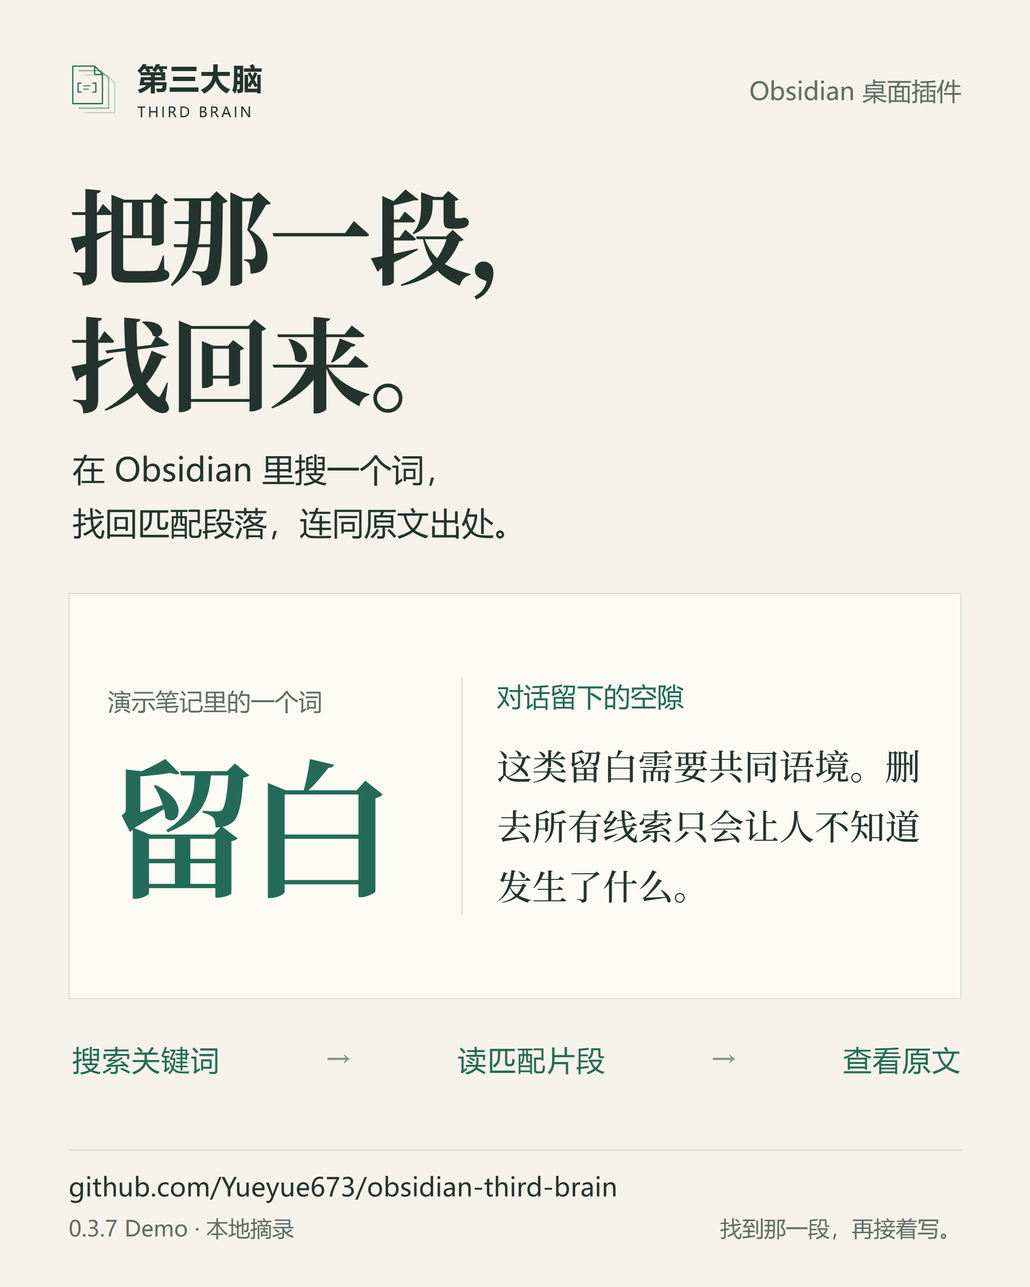
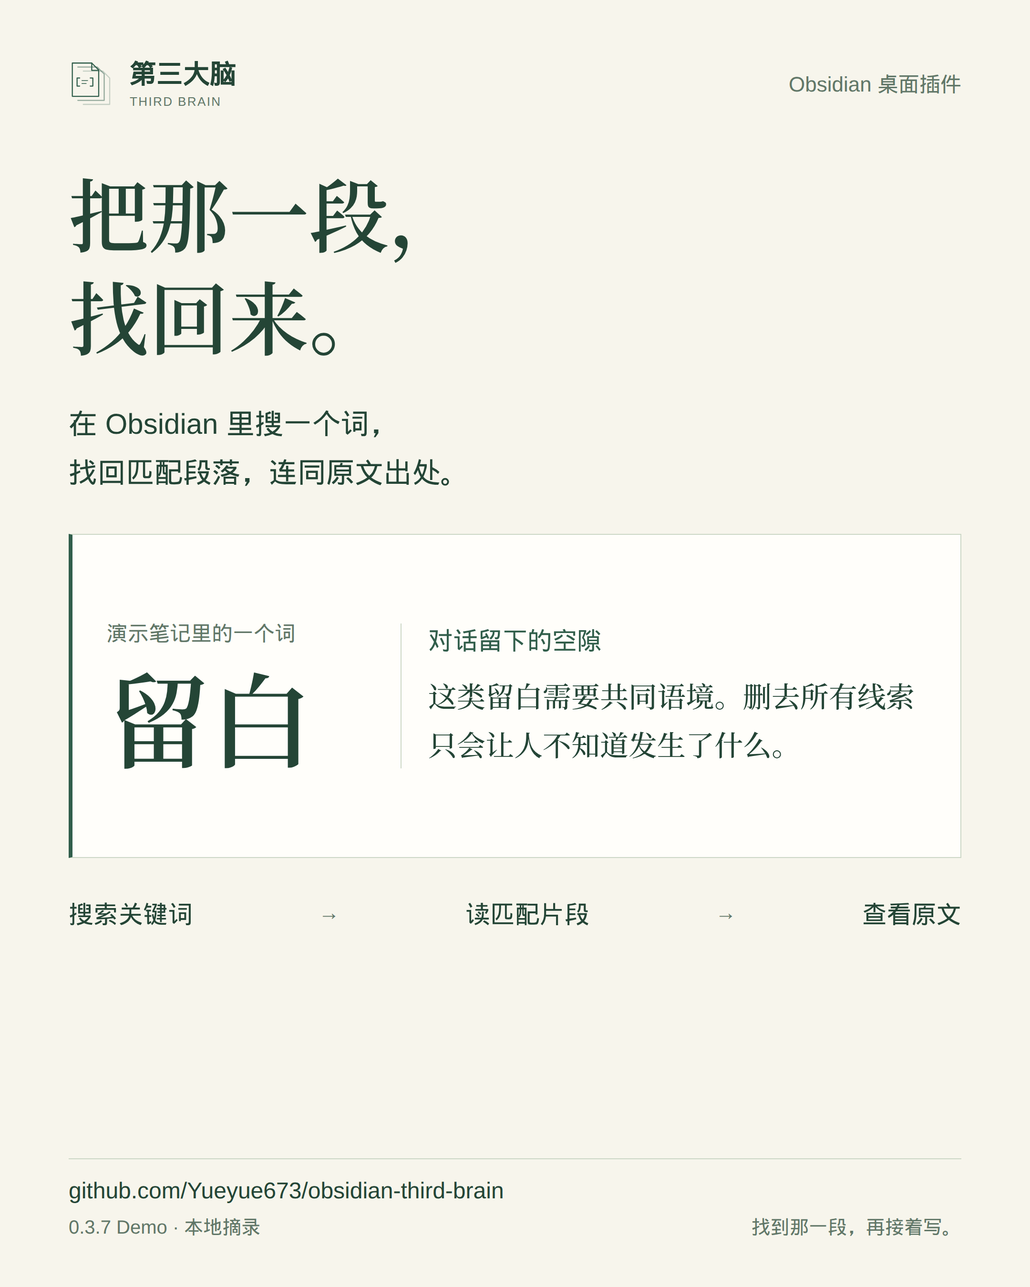
Quiet the covers, posters and test-page chrome.
Use paper, ink and a muted green for the README covers, campaign posters, plugin panel and browser-test page. Search, storage and the released 0.3.7 screenshots stay as they are.

diff --git a/docs/posters/posters.css b/docs/posters/posters.css
@@ -1,43 +1,40 @@
 /* Third Brain promotional artwork — MIT, Copyright (c) 2026 Yueyue.
-   Fonts are not bundled. Use Noto Serif SC and Microsoft YaHei, or the fallbacks below. */
+   Fonts are not bundled. Use Noto Serif SC and Microsoft YaHei, or the fallbacks below.
+   Paper, ink and a quiet green. No gradients, blur or glass. */
 *{box-sizing:border-box}
-:root{--paper:#f5f2eb;--ink:#23332e;--muted:#5f6e66;--green:#246b57;--line:#cbd5cb;--serif:"Campaign Serif","Noto Serif SC","Songti SC","SimSun",serif;--sans:"Microsoft YaHei","PingFang SC",sans-serif}
-html,body{margin:0;padding:0}body{background:#d9dfd8;color:var(--ink);font-family:var(--sans)}
-.poster{position:relative;width:1080px;height:1350px;overflow:hidden;background:var(--paper);color:var(--ink);isolation:isolate;margin:0 0 32px;font-family:var(--sans)}
-.brand{position:absolute;left:72px;right:72px;top:60px;display:flex;align-items:center;justify-content:space-between;height:68px}
-.lockup{display:flex;align-items:center;gap:18px}.mark{width:54px;height:64px;color:var(--green)}
-.name{font-size:32px;line-height:1.2;font-weight:700;letter-spacing:1px}.name small{display:block;font-size:15px;letter-spacing:2.3px;font-weight:500;margin-top:8px}
-.category{font-size:26px;font-weight:400;color:var(--muted)}
-h1{position:absolute;left:72px;right:56px;top:180px;margin:0;font-family:var(--serif);font-size:100px;font-weight:720;line-height:1.24;letter-spacing:-3px;word-break:keep-all}
-.lead{position:absolute;left:76px;right:60px;top:458px;margin:0;font-size:34px;line-height:1.65;font-weight:400}
-.footer{position:absolute;left:72px;right:72px;bottom:46px;border-top:1px solid var(--line);padding-top:20px}
-.url{font-size:27px;line-height:1.3;font-family:var(--sans);letter-spacing:.1px}
-.footer-row{display:flex;justify-content:space-between;align-items:center;margin-top:12px;color:var(--muted);font-size:23px;line-height:1.3}
-.eyebrow{font-size:26px;letter-spacing:.5px;color:var(--muted);margin:0}.caption{font-size:25px;line-height:1.6;color:var(--muted);margin:0}
-.p1 h1{font-size:108px;top:177px}.p1 .lead{top:464px}
-.note-paper{position:absolute;left:72px;right:72px;top:622px;height:426px;background:#fcfaf5;border:1px solid #d4dacf;display:grid;grid-template-columns:335px 1fr;align-items:center;padding:36px 40px;column-gap:36px}
-.keyword{font-family:var(--serif);font-size:156px;font-weight:650;line-height:1.1;color:var(--green);letter-spacing:-10px}
-.keyword small{display:block;font-family:var(--sans);font-weight:400;font-size:25px;letter-spacing:0;color:var(--muted);margin-bottom:26px}
-.note-copy{border-left:1px solid var(--line);padding-left:36px}.note-copy h2{font-size:28px;line-height:1.4;margin:0 0 22px;color:var(--green);font-weight:500}.note-copy p{font-family:var(--serif);font-size:37px;line-height:1.7;font-weight:500;margin:0}
-.p1 .process{position:absolute;left:76px;right:72px;top:1091px;font-size:30px;letter-spacing:1px;color:var(--green);display:flex;align-items:center;justify-content:space-between}
-.p1 .process .arrow{font-size:25px;color:#82948a}
-.p2 h1{font-size:96px;top:181px}.p2 .lead{top:451px;font-size:33px}
-.p2 .search-label{position:absolute;left:76px;top:566px;font-size:26px;color:var(--green);margin:0}
-.search-shot{position:absolute;left:72px;top:615px;width:936px;height:auto;display:block}
-.p2 .match-label{position:absolute;left:76px;top:826px;margin:0;font-size:26px;color:var(--green)}
-.match-shot{position:absolute;left:72px;top:880px;width:936px;height:auto;display:block}
-.p2 .outcome{position:absolute;left:76px;right:72px;top:1120px;margin:0;font-size:28px;line-height:1.55}
-.p2 .source-note{position:absolute;left:76px;top:1065px;color:var(--muted);font-size:23px;margin:0}
-.p3{--paper:#173f32;--ink:#f5f2eb;--muted:#c4d5c9;--line:#527060;--green:#bcdbc7}
-.p3 h1{top:179px;font-size:100px}.p3 .lead{top:451px;font-size:34px}
-.quotation{position:absolute;left:76px;right:72px;top:615px;margin:0;font-family:var(--serif);font-size:56px;line-height:1.63;font-weight:550;letter-spacing:-1px}
-.p3 .quote-source{position:absolute;left:78px;top:899px;margin:0;font-size:27px;color:var(--muted)}
-.p3 .button-label{position:absolute;left:78px;top:958px;margin:0;font-size:30px}
-.open-shot{position:absolute;left:76px;top:1008px;max-width:924px;width:850px;height:auto;display:block}
-.p3 .caption{position:absolute;left:78px;top:1152px;font-size:23px}
-.p4 h1{top:180px;font-size:96px}.p4 .lead{top:451px;font-size:33px;line-height:1.75}
-.steps{position:absolute;left:76px;top:624px;width:535px;list-style:none;margin:0;padding:0;display:flex;flex-direction:column;gap:42px}
-.steps li{display:grid;grid-template-columns:36px 1fr;column-gap:16px}.step-number{font-size:22px;color:var(--green);padding-top:10px}.step-title{font-size:38px;line-height:1.5;font-weight:500;margin:0;letter-spacing:-1px}.step-detail{font-size:26px;line-height:1.55;color:var(--muted);margin:5px 0 0}
-.qr-area{position:absolute;right:72px;top:630px;width:369px;text-align:center}.qr{display:block;width:369px;height:369px;image-rendering:pixelated;background:white}.qr-area p{font-size:27px;line-height:1.5;margin:16px 0 0;color:var(--green)}
-.p4 .try-note{position:absolute;left:76px;top:1123px;font-size:28px;line-height:1.5;color:var(--muted);margin:0}
+:root{--paper:#f7f5ec;--ink:#244536;--muted:#617768;--green:#315e4b;--line:#ccd7c6;--card:#fffefa;--serif:"Campaign Serif","Noto Serif SC","Songti SC","SimSun",serif;--sans:"Microsoft YaHei","PingFang SC","Noto Sans SC","Source Han Sans SC",sans-serif}
+html,body{margin:0;padding:0}body{background:#e6e1d4;color:var(--ink);font-family:var(--sans)}
+.poster{position:relative;width:1080px;height:1350px;overflow:hidden;background:var(--paper);color:var(--ink);margin:0 0 32px;font-family:var(--sans)}
+.brand{position:absolute;left:72px;right:72px;top:56px;display:flex;align-items:center;justify-content:space-between;height:64px}
+.lockup{display:flex;align-items:center;gap:16px}.mark{width:48px;height:58px;color:var(--green)}
+.name{font-size:28px;line-height:1.25;font-weight:600}.name small{display:block;font-size:13px;letter-spacing:1.2px;font-weight:500;margin-top:4px;color:var(--muted)}
+.category{font-size:22px;font-weight:400;color:var(--muted)}
+h1{position:absolute;left:72px;right:72px;top:168px;margin:0;font-family:var(--serif);font-size:84px;font-weight:600;line-height:1.28;letter-spacing:0;word-break:keep-all}
+.lead{position:absolute;left:72px;right:72px;top:420px;margin:0;font-size:30px;line-height:1.7;font-weight:400;color:var(--ink)}
+.footer{position:absolute;left:72px;right:72px;bottom:48px;border-top:1px solid var(--line);padding-top:18px}
+.url{font-size:24px;line-height:1.35;font-family:var(--sans)}
+.footer-row{display:flex;justify-content:space-between;align-items:center;margin-top:8px;color:var(--muted);font-size:20px;line-height:1.4}
+.eyebrow{font-size:22px;color:var(--muted);margin:0}.caption{font-size:20px;line-height:1.5;color:var(--muted);margin:0}
+.note-paper{position:absolute;left:72px;right:72px;top:560px;height:340px;background:var(--card);border:1px solid var(--line);border-left:4px solid var(--green);display:grid;grid-template-columns:280px 1fr;align-items:center;padding:32px 36px;column-gap:28px}
+.keyword{font-family:var(--serif);font-size:108px;font-weight:600;line-height:1.05;color:var(--ink);letter-spacing:0}
+.keyword small{display:block;font-family:var(--sans);font-weight:400;font-size:22px;letter-spacing:0;color:var(--muted);margin-bottom:18px}
+.note-copy{border-left:1px solid var(--line);padding-left:28px}.note-copy h2{font-size:26px;line-height:1.4;margin:0 0 14px;color:var(--green);font-weight:500}.note-copy p{font-family:var(--serif);font-size:30px;line-height:1.7;font-weight:500;margin:0}
+.p1 .process{position:absolute;left:72px;right:72px;top:944px;font-size:26px;color:var(--ink);display:flex;align-items:center;justify-content:space-between}
+.p1 .process .arrow{font-size:22px;color:var(--muted)}
+.p2 .search-label{position:absolute;left:72px;top:560px;font-size:22px;color:var(--muted);margin:0}
+.search-shot,.match-shot,.open-shot{display:block;height:auto;border:1px solid var(--line);background:var(--card)}
+.search-shot{position:absolute;left:72px;top:604px;width:936px}
+.p2 .match-label{position:absolute;left:72px;top:820px;margin:0;font-size:22px;color:var(--muted)}
+.match-shot{position:absolute;left:72px;top:864px;width:936px}
+.p2 .source-note{position:absolute;left:72px;top:1048px;color:var(--muted);font-size:20px;margin:0}
+.p2 .outcome{position:absolute;left:72px;right:72px;top:1096px;margin:0;font-size:26px;line-height:1.55}
+.quotation{position:absolute;left:72px;right:72px;top:560px;margin:0;padding:8px 0 8px 28px;border-left:3px solid var(--green);font-family:var(--serif);font-size:48px;line-height:1.6;font-weight:500}
+.p3 .quote-source{position:absolute;left:104px;top:830px;margin:0;font-size:24px;color:var(--muted)}
+.p3 .button-label{position:absolute;left:72px;top:896px;margin:0;font-size:26px;color:var(--ink)}
+.open-shot{position:absolute;left:72px;top:952px;width:850px}
+.p3 .caption{position:absolute;left:72px;top:1104px;font-size:20px;color:var(--muted)}
+.steps{position:absolute;left:72px;top:568px;width:500px;list-style:none;margin:0;padding:0;display:flex;flex-direction:column;gap:36px}
+.steps li{display:grid;grid-template-columns:36px 1fr;column-gap:12px}.step-number{font-size:18px;color:var(--muted);padding-top:8px}.step-title{font-size:32px;line-height:1.45;font-weight:500;margin:0}.step-detail{font-size:22px;line-height:1.55;color:var(--muted);margin:4px 0 0}
+.qr-area{position:absolute;right:72px;top:568px;width:369px;text-align:center}.qr{display:block;width:369px;height:369px;image-rendering:pixelated;background:#fffefa}.qr-area p{font-size:22px;line-height:1.5;margin:14px 0 0;color:var(--muted)}
+.p4 .try-note{position:absolute;left:72px;right:72px;top:1088px;font-size:24px;line-height:1.5;color:var(--muted);margin:0}
 @media print{body{background:none}.poster{margin:0;break-after:page}.poster:last-child{break-after:auto}}

diff --git a/styles.css b/styles.css
@@ -1,1 +1,44 @@
-.third-brain-panel{max-width:52rem;padding:var(--size-4-4,16px);color:var(--text-normal);font-family:var(--font-interface);line-height:1.5;box-sizing:border-box}.third-brain-panel *{box-sizing:border-box}.third-brain-panel h2,.third-brain-panel h3,.third-brain-panel h4{margin:0;font-weight:600}.tb-heading{margin-bottom:1.2rem}.tb-heading h2{font-size:1.3rem}.tb-heading p{margin:.35rem 0 0}.tb-muted{color:var(--text-muted);font-size:.9rem}.tb-status{font-size:.9rem;margin-bottom:.2rem}.tb-stats{margin:.25rem 0 1.2rem;font-size:.8rem}.tb-label{display:block;font-size:.9rem;font-weight:600;margin-bottom:.4rem}.tb-idea{display:block;width:100%;min-height:6.5rem;resize:vertical;border:1px solid var(--background-modifier-border);border-radius:var(--radius-s,4px);background:var(--background-primary);color:var(--text-normal);padding:.65rem;font:inherit}.tb-idea:focus-visible,.third-brain-panel button:focus-visible,.tb-select:focus-visible,.tb-evidence summary:focus-visible,.tb-facet-overflow summary:focus-visible{outline:2px solid var(--interactive-accent);outline-offset:2px}.tb-options{display:flex;flex-wrap:wrap;justify-content:space-between;align-items:center;gap:.6rem;margin:.65rem 0}.tb-breadth-label{display:flex;align-items:center;gap:.5rem;color:var(--text-muted);font-size:.8rem}.tb-select{max-width:100%;color:var(--text-normal);background:var(--background-secondary);border:1px solid var(--background-modifier-border);padding:.35rem;border-radius:4px}.tb-actions{display:flex;flex-wrap:wrap;gap:.5rem;margin:.85rem 0 1.15rem}.third-brain-panel button{cursor:pointer;font:inherit;font-size:.88rem;line-height:1.3;white-space:normal;min-height:2rem}.tb-primary{background:var(--interactive-accent)!important;color:var(--text-on-accent)!important;border:0;border-radius:4px;padding:.5rem .8rem}.tb-secondary{border:1px solid var(--background-modifier-border);border-radius:4px;padding:.45rem .65rem;background:transparent;color:var(--text-normal)}.third-brain-panel button:disabled{opacity:.5;cursor:default}.tb-notice{border-left:2px solid var(--text-error);padding-left:.7rem;font-size:.88rem}.tb-result-summary{font-size:.82rem;color:var(--text-muted);margin:0 0 .7rem}.tb-result{border-top:1px solid var(--background-modifier-border);padding:1rem 0}.tb-result-top{display:flex;justify-content:space-between;align-items:baseline;gap:.7rem}.tb-result-title{font-size:1rem}.tb-kind{font-size:.7rem;color:var(--text-faint);flex-shrink:0}.tb-fragment{margin:.5rem 0 .65rem;white-space:pre-wrap;overflow-wrap:anywhere}.tb-small-heading{font-size:.8rem;color:var(--text-muted);margin:.7rem 0 .25rem!important}.tb-reason{font-size:.87rem;margin:.25rem 0}.tb-caveat{font-size:.82rem;color:var(--text-muted);margin:.35rem 0}.tb-facets{display:flex;flex-wrap:wrap;gap:.3rem;margin:.6rem 0}.tb-facet{border:0;border-bottom:1px solid var(--background-modifier-border);background:transparent;color:var(--text-muted);padding:.15rem .3rem;min-height:1.5rem!important}.tb-evidence,.tb-facet-overflow{font-size:.82rem;margin-top:.7rem}.tb-evidence summary,.tb-facet-overflow summary{cursor:pointer;color:var(--text-muted)}.tb-evidence-row{padding:.5rem 0}.tb-quote{white-space:pre-wrap;overflow-wrap:anywhere;margin:.3rem 0;padding:.2rem .7rem;border-left:2px solid var(--background-modifier-border);color:var(--text-muted)}.tb-source{border:0;background:none;color:var(--interactive-accent);padding:.3rem 0;text-align:left;overflow-wrap:anywhere}.tb-empty-title{font-size:1rem;margin-top:.5rem!important}.tb-privacy{font-size:.78rem;margin:.2rem 0}.tb-results{min-width:0}.third-brain-panel [hidden]{display:none!important}@media(max-width:380px){.third-brain-panel{padding:12px}.tb-result-top{display:block}.tb-kind{display:block;margin-top:.15rem}.tb-breadth-label{display:block}.tb-select{display:block;margin-top:.3rem}.tb-options{align-items:flex-end}}@media(prefers-reduced-motion:reduce){.third-brain-panel *{scroll-behavior:auto;transition:none!important}}
+/* Quiet reading surface. Color follows the Obsidian theme; fallbacks are paper, ink and a muted green. */
+.third-brain-panel{max-width:40rem;padding:var(--size-4-3,12px) var(--size-4-4,16px);color:var(--text-normal,#244536);font-family:var(--font-interface,"Microsoft YaHei","PingFang SC",sans-serif);font-size:.95rem;line-height:1.65;box-sizing:border-box}
+.third-brain-panel *{box-sizing:border-box}
+.third-brain-panel h2,.third-brain-panel h3,.third-brain-panel h4{margin:0;font-weight:500}
+.tb-heading{margin-bottom:.85rem}
+.tb-heading h2{font-size:1.05rem;letter-spacing:0}
+.tb-heading p{margin:.2rem 0 0}
+.tb-muted{color:var(--text-muted,#617768);font-size:.9rem}
+.tb-status{font-size:.88rem;margin-bottom:.15rem}
+.tb-stats{margin:.15rem 0 .9rem;font-size:.8rem}
+.tb-label{display:block;font-size:.9rem;font-weight:500;margin-bottom:.35rem}
+.tb-idea{display:block;width:100%;min-height:6.5rem;resize:vertical;border:1px solid var(--background-modifier-border,#ccd7c6);border-radius:2px;background:var(--background-primary,#f7f5ec);color:var(--text-normal,#244536);padding:.6rem .7rem;font:inherit;line-height:1.65;box-shadow:none}
+.tb-idea:focus-visible,.third-brain-panel button:focus-visible,.tb-select:focus-visible,.tb-evidence summary:focus-visible,.tb-facet-overflow summary:focus-visible{outline:2px solid var(--interactive-accent,#315e4b);outline-offset:2px}
+.tb-options{display:flex;flex-wrap:wrap;justify-content:space-between;align-items:center;gap:.55rem;margin:.55rem 0}
+.tb-breadth-label{display:flex;align-items:center;gap:.45rem;color:var(--text-muted,#617768);font-size:.8rem}
+.tb-select{max-width:100%;color:var(--text-normal,#244536);background:var(--background-secondary,#fffefa);border:1px solid var(--background-modifier-border,#ccd7c6);padding:.3rem .4rem;border-radius:2px;box-shadow:none}
+.tb-actions{display:flex;flex-wrap:wrap;gap:.45rem;margin:.7rem 0 1rem}
+.third-brain-panel button{cursor:pointer;font:inherit;font-size:.88rem;line-height:1.35;white-space:normal;min-height:2rem;border-radius:2px;box-shadow:none}
+.tb-primary{background:transparent!important;color:var(--text-normal,#244536)!important;border:1px solid var(--interactive-accent,#315e4b);padding:.4rem .7rem}
+.tb-secondary{border:1px solid var(--background-modifier-border,#ccd7c6);padding:.38rem .62rem;background:transparent;color:var(--text-normal,#244536)}
+.third-brain-panel button:disabled{opacity:.55;cursor:default}
+.tb-notice{border-left:2px solid var(--text-error,#8f3d36);padding-left:.7rem;font-size:.88rem}
+.tb-result-summary{font-size:.82rem;color:var(--text-muted,#617768);margin:0 0 .55rem}
+.tb-result{border-top:1px solid var(--background-modifier-border,#ccd7c6);padding:.85rem 0}
+.tb-result-top{display:flex;justify-content:space-between;align-items:baseline;gap:.7rem}
+.tb-result-title{font-size:1rem}
+.tb-kind{font-size:.75rem;color:var(--text-faint,#7d9084);flex-shrink:0}
+.tb-fragment{margin:.4rem 0 .55rem;line-height:1.65;white-space:pre-wrap;overflow-wrap:anywhere}
+.tb-small-heading{font-size:.8rem;color:var(--text-muted,#617768);margin:.65rem 0 .2rem!important}
+.tb-reason{font-size:.88rem;margin:.2rem 0;line-height:1.6}
+.tb-caveat{font-size:.82rem;color:var(--text-muted,#617768);margin:.3rem 0}
+.tb-facets{display:flex;flex-wrap:wrap;gap:.15rem .45rem;margin:.5rem 0}
+.tb-facet{border:0;border-bottom:1px solid var(--background-modifier-border,#ccd7c6);border-radius:0;background:transparent;color:var(--text-muted,#617768);padding:.1rem .15rem;min-height:1.5rem!important}
+.tb-evidence,.tb-facet-overflow{font-size:.82rem;margin-top:.6rem}
+.tb-evidence summary,.tb-facet-overflow summary{cursor:pointer;color:var(--text-muted,#617768)}
+.tb-evidence-row{padding:.45rem 0}
+.tb-quote{white-space:pre-wrap;overflow-wrap:anywhere;margin:.25rem 0;padding:.15rem .7rem;border-left:2px solid var(--background-modifier-border,#ccd7c6);color:var(--text-muted,#617768);line-height:1.65}
+.tb-source{border:0;background:none;color:var(--interactive-accent,#315e4b);padding:.25rem 0;text-align:left;overflow-wrap:anywhere}
+.tb-empty-title{font-size:1rem;margin-top:.4rem!important}
+.tb-privacy{font-size:.78rem;margin:.15rem 0}
+.tb-results{min-width:0}
+.third-brain-panel [hidden]{display:none!important}
+@media(max-width:380px){.third-brain-panel{padding:12px}.tb-result-top{display:block}.tb-kind{display:block;margin-top:.15rem}.tb-breadth-label{display:block}.tb-select{display:block;margin-top:.3rem}.tb-options{align-items:flex-end}}
+@media(prefers-reduced-motion:reduce){.third-brain-panel *{scroll-behavior:auto;transition:none!important}}

diff --git a/scripts/demo-server.ts b/scripts/demo-server.ts
@@ -16,7 +16,7 @@ const sources = new FileSources(root, () => settings, () => store.managedSourceP
 const controller = new ThirdBrainController(sources, store, () => settings, () => undefined, async when => { settings.lastIndexedAt = when; });
 await controller.initialize();
 const origin = `http://127.0.0.1:${port}`;
-const html = `<!doctype html><html lang="zh"><meta charset="utf-8"><meta name="viewport" content="width=device-width,initial-scale=1"><title>Third Brain — synthetic test harness</title><link rel="stylesheet" href="/styles.css"><style>:root{--text-normal:#d8dde5;--text-muted:#98a1b0;--text-faint:#788290;--text-error:#e59c96;--interactive-accent:#99aacd;--text-on-accent:#141821;--background-primary:#191d25;--background-secondary:#232833;--background-modifier-border:#343c49;--font-interface:system-ui,sans-serif}body{margin:0;background:var(--background-primary);color:var(--text-normal);font:14px system-ui,sans-serif}.harness-label{font-size:12px;color:var(--text-muted);padding:14px 16px;border-bottom:1px solid var(--background-modifier-border)}#panel{width:min(100%,540px)}dialog{max-width:90vw;max-height:85vh;background:var(--background-primary);color:var(--text-normal);border:1px solid var(--background-modifier-border);padding:20px}dialog pre{white-space:pre-wrap;overflow-wrap:anywhere;font:inherit}dialog button{margin-bottom:10px}</style><div class="harness-label">合成测试库 · 真实界面渲染器 + 文件系统链路 · 非 Obsidian 截图</div><main id="panel"></main><script type="module" src="/demo-client.js"></script></html>`;
+const html = `<!doctype html><html lang="zh-CN"><meta charset="utf-8"><meta name="viewport" content="width=device-width,initial-scale=1"><title>第三大脑 · 合成测试页</title><link rel="stylesheet" href="/styles.css"><style>:root{--text-normal:#244536;--text-muted:#617768;--text-faint:#7d9084;--text-error:#8f3d36;--interactive-accent:#315e4b;--text-on-accent:#f7f5ec;--background-primary:#f7f5ec;--background-secondary:#fffefa;--background-modifier-border:#ccd7c6;--font-interface:"Microsoft YaHei","PingFang SC","Noto Sans SC",sans-serif}body{margin:0;background:#f7f5ec;color:var(--text-normal);font:15px/1.65 var(--font-interface)}.harness-label{font-size:13px;color:var(--text-muted);padding:12px 20px;border-bottom:1px solid var(--background-modifier-border)}#panel{width:min(100%,40rem)}dialog{max-width:90vw;max-height:85vh;background:#fffefa;color:var(--text-normal);border:1px solid var(--background-modifier-border);border-radius:2px;padding:20px;box-shadow:none}dialog pre{white-space:pre-wrap;overflow-wrap:anywhere;font:inherit}dialog button{margin-bottom:10px;font:inherit;color:var(--text-normal);background:transparent;border:1px solid var(--background-modifier-border);border-radius:2px;padding:6px 10px}</style><div class="harness-label">合成测试库 · 真实界面渲染器 + 文件系统链路 · 非 Obsidian 截图</div><main id="panel"></main><script type="module" src="/demo-client.js"></script></html>`;
 function response(res: import('node:http').ServerResponse, status: number, body: unknown): void { res.writeHead(status, { 'Content-Type': 'application/json; charset=utf-8', 'Cache-Control': 'no-store', 'X-Content-Type-Options': 'nosniff' }); res.end(JSON.stringify(body)); }
 const server = createServer(async (req, res) => {
   try {

diff --git a/CHANGELOG.md b/CHANGELOG.md
@@ -4,6 +4,8 @@ These releases are desktop previews. Version-specific test results and outstandi
 
 ## Unreleased
 
+- Quiet the public covers, campaign posters, plugin panel and browser-test page chrome: paper, ink and a muted green, without gradients or glass. Search, ranking, storage and the released 0.3.7 screenshots are unchanged. Poster PNG exports were regenerated from the same HTML copy and the same real interface crops.
+
 - Split the combined duplicate-donor-deletion acceptance into fresh-vault pre-refresh refusal, commit/fresh-card and surviving-late-point journeys after its English case exceeded the unchanged 20-second deadline on Windows CI. Both languages retain every original/generated action, attached old-card checks during and after durable commit, exact donor membership, cancellation/proof compatibility, byte-idempotency and original/human-file protection. Pending operations still settle before DOM teardown. Test-only: no plugin, AI policy, timeout, skip or downloadable asset changes; individual cases do less work, but repeated setup increases total work and does not guarantee long-term CI timing.
 
 - Keep a Canvas text node's declared properties on that node's local excerpts. Clicking a property no longer includes unrelated nodes just because they share a Canvas file, and generated relationships no longer inherit those false matches. Exact duplicate excerpts still combine their actual contributors' labels; Markdown note-wide properties and whole-Canvas restrictive privacy are unchanged. Existing local indexes rebuild once on explicit refresh; old generated bytes remain readable and archived. Synthetic English/Chinese file-store and panel journeys cover source changes, exclusions, cancellation, human edits and unchanged refresh. AI inputs/cache policies and download 0.3.7 are unchanged; this is declared-property attribution, not AI semantic or native-click evidence.

diff --git a/DESIGN.md b/DESIGN.md
@@ -34,6 +34,6 @@ Sources and licensing observations are in `docs/RESEARCH.md`.
 
 ## Public artwork / 对外视觉素材
 
-Repository covers and campaign posters share a paper-white / ink-green palette and the idea **Find that passage. Keep writing. / 找到那一段，再接着写。** The README cover stays a short, horizontal workflow illustration; standalone posters use 4:5 editorial layouts. Noto Serif SC headlines contrast with readable sans-serif explanation text. Font binaries are not bundled.
+Repository covers and campaign posters share a paper / ink / quiet-green palette and the idea **Find that passage. Keep writing. / 找到那一段，再接着写。** The README cover stays a short, horizontal workflow illustration; standalone posters use 4:5 editorial layouts. Noto Serif SC headlines contrast with readable sans-serif explanation text. Font binaries are not bundled. Covers and posters do not use gradients, blur, glass or numbered product diagrams. The labelled browser test page uses the same paper, ink and green for its page chrome. Plugin controls still follow Obsidian theme variables, with those colours only as fallbacks.
 
 Real UI screenshots are never regenerated as fictional controls. Source quotations, URLs and QR targets are exact. Browser-test-page screenshots remain explicitly labelled and bound to their release version. Campaign claims emphasize the verified local word/label search and original-source path, not experimental AI discovery. Editable sources and export instructions live in [docs/posters](docs/posters/README.md). This public artwork does not replace Obsidian's native interface tokens or change runtime behavior.
